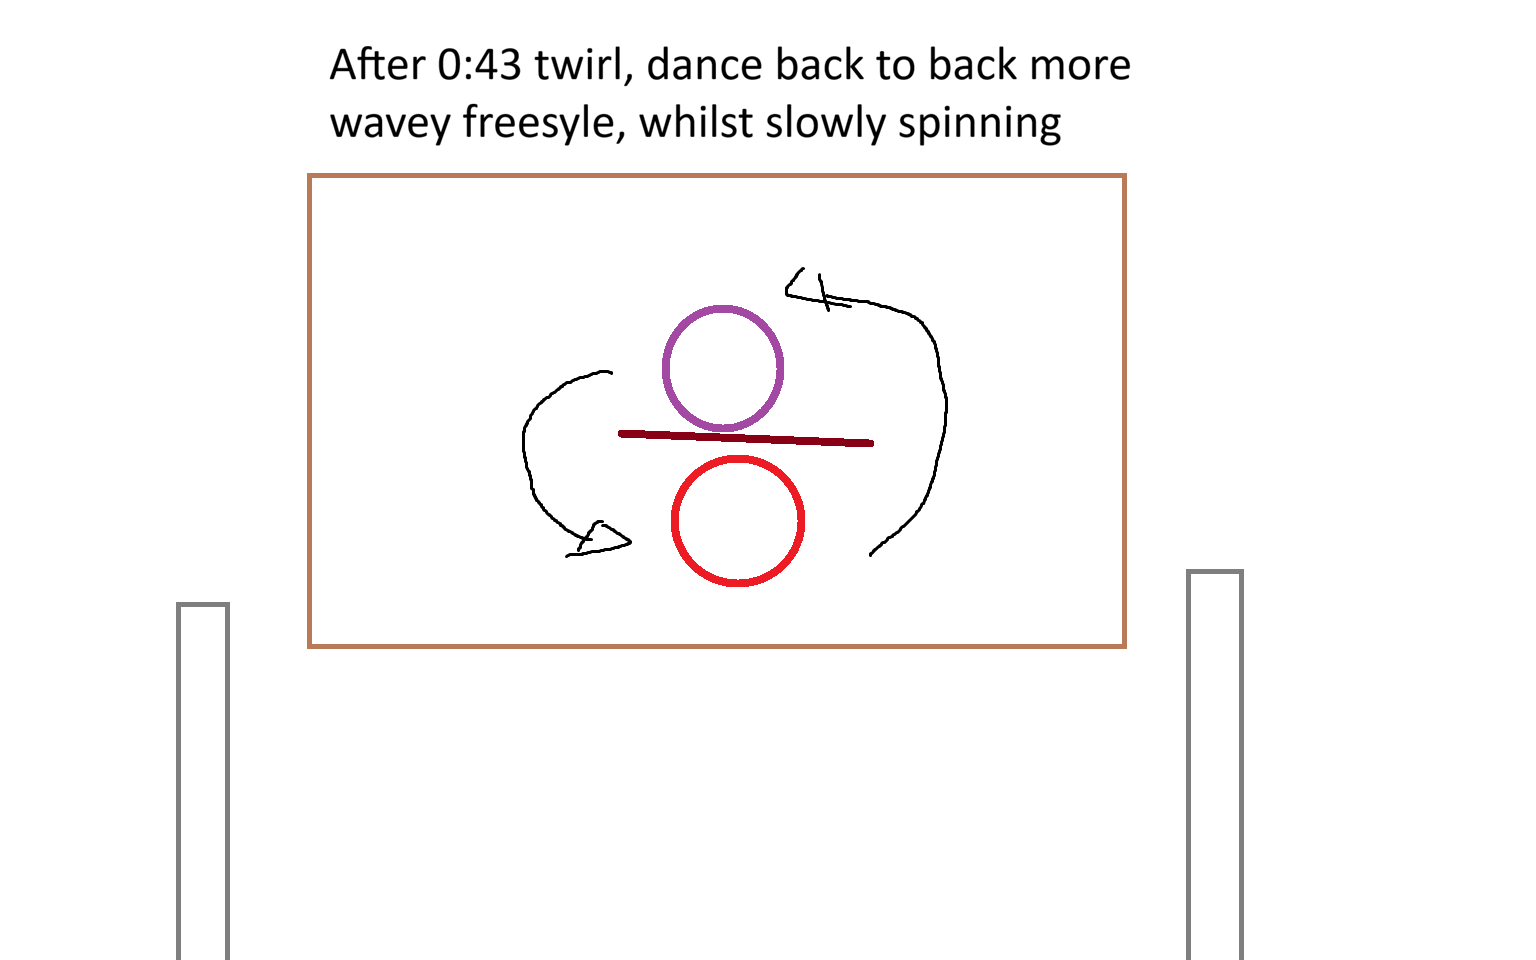
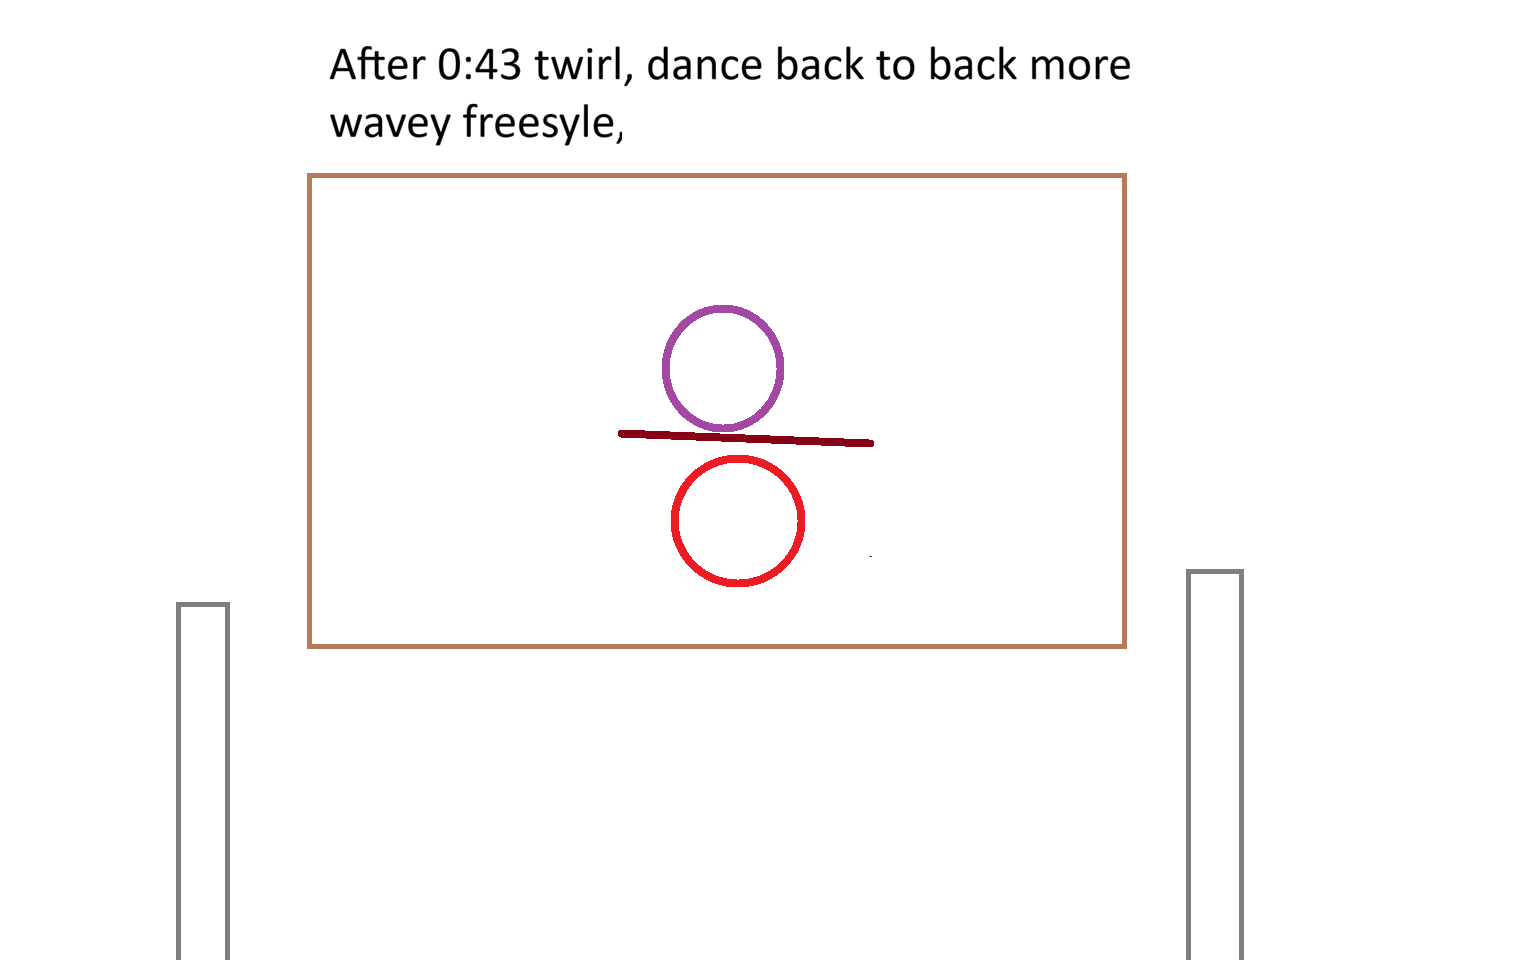
Update dance step 4 - back to back freestyle, no spinning

diff --git a/dance.html b/dance.html
@@ -348,7 +348,7 @@
                 <div class="step-header">
                     <span class="step-number">4</span>
                     <span class="step-timestamp">After 0:43</span>
-                    <span class="step-title">Back-to-Back Freestyle, Slowly Spinning</span>
+                    <span class="step-title">Back-to-Back Freestyle</span>
                 </div>
                 <div class="step-body">
                     <div class="step-image">
@@ -356,7 +356,7 @@
                     </div>
                     <div class="step-instructions">
                         <p><span class="who-tag both">Both</span> dance back-to-back after the 0:43 twirl.</p>
-                        <p style="margin-top:12px;">More wavey, freestyle movement whilst slowly spinning together.</p>
+                        <p style="margin-top:12px;">More wavey, freestyle movement.</p>
                     </div>
                 </div>
             </div>
